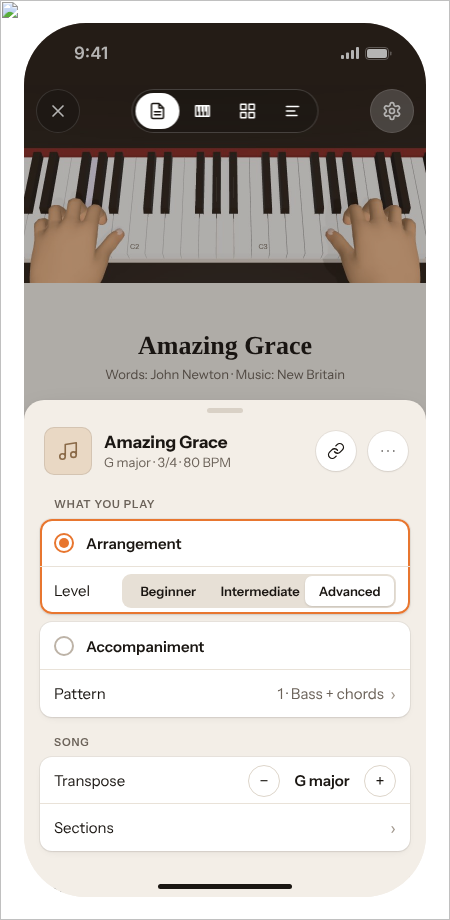
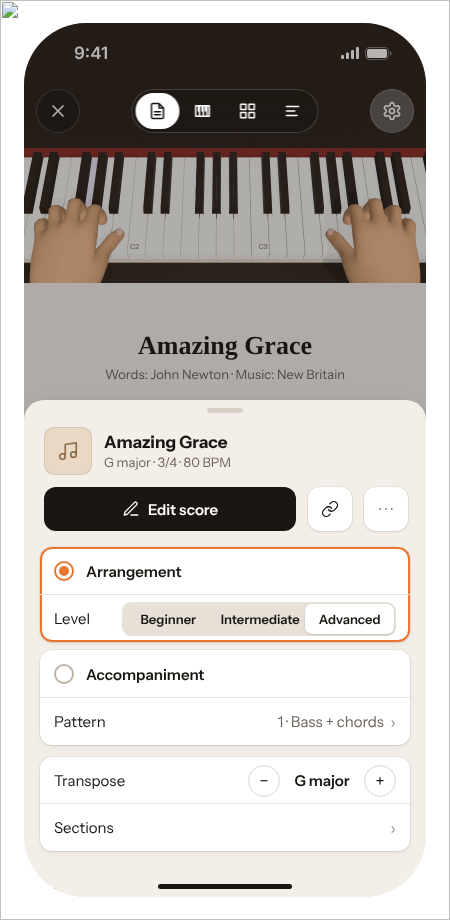
R37 canvas: Edit score as a full button under the song; no section headings in the drawer
Claude-Session: https://claude.ai/code/session_01BrtnH1Yf7S8aVU4w6rFSCU

Changed region(s): [[0.0622, 0.5174, 0.9333, 0.8217], [0.7156, 0.487, 0.7467, 0.5174]]

diff --git a/.scratch/r37/canvas/panels.py b/.scratch/r37/canvas/panels.py
@@ -116,18 +116,18 @@ ACTS = (caption('More') + '\n' + '<div role="group" aria-label="Song actions" st
     + ''.join('<button type="button" style="%s"><svg width="20" height="20" viewBox="0 0 24 24" fill="none" stroke="#6B6259" stroke-width="1.75" stroke-linecap="round" stroke-linejoin="round" aria-hidden="true" style="flex: none"><path d="%s"></path></svg><span style="flex: 1">%s</span><span aria-hidden="true" style="color: #A39A90; font-size: 18px">›</span></button>' % (ACT_ROW, d, n) for n, d in ACT_ICONS)
     + '</div>')
 ICON = lambda d, s=20: '<svg width="%d" height="%d" viewBox="0 0 24 24" fill="none" stroke="currentColor" stroke-width="1.75" stroke-linecap="round" stroke-linejoin="round" aria-hidden="true" style="flex: none"><path d="%s"></path></svg>' % (s, s, d)
-ICBTN = 'flex: none; width: 40px; height: 40px; border: 0; border-radius: 9999px; background: #FFFFFF; color: #1A1612; display: flex; align-items: center; justify-content: center; box-shadow: 0 0 0 1px rgba(26,22,18,0.06), 0 1px 2px rgba(26,22,18,0.08)'
+ICBTN = 'flex: none; width: 44px; height: 44px; border: 0; border-radius: 12px; background: #FFFFFF; color: #1A1612; display: flex; align-items: center; justify-content: center; box-shadow: 0 0 0 1px rgba(26,22,18,0.06), 0 1px 2px rgba(26,22,18,0.08)'
 MENU_ROW = 'min-height: 44px; box-sizing: border-box; padding: 0 14px; display: flex; align-items: center; gap: 12px; width: 100%; border: 0; border-top: 1px solid #EFE9E1; background: transparent; color: #1A1612; font-size: 15px; text-align: left'
 # the drawer's head is the song, as Chordify's and Apple Music's sheets are: its name and facts, and its two acts at the
 # right (Share link, and ··· for Edit score · Print · Export, a menu as Chordify's ⋮); settings only below, in groups
-SONGHEAD = ('<div style="flex: none; position: relative; display: flex; align-items: center; gap: 12px; padding: 2px 2px 4px 4px">'
+SONGHEAD = ('<div style="flex: none; position: relative; display: flex; flex-wrap: wrap; align-items: center; gap: 12px; padding: 2px 2px 4px 4px">'
     '<span aria-hidden="true" style="flex: none; width: 48px; height: 48px; border-radius: 10px; background: #E9D8C4; box-shadow: inset 0 0 0 1px rgba(26,22,18,0.10); display: flex; align-items: center; justify-content: center; color: #8A6A48">' + ICON('M9 18V5l12-2v13M9 18a3 3 0 1 1-6 0 3 3 0 0 1 6 0ZM21 16a3 3 0 1 1-6 0 3 3 0 0 1 6 0Z', 22) + '</span>'
-    '<span style="flex: 1; min-width: 0; display: flex; flex-direction: column; gap: 2px"><span style="font-size: 17px; font-weight: 700; line-height: 1.2; white-space: nowrap; overflow: hidden; text-overflow: ellipsis">Amazing Grace</span><span style="font-size: 13px; color: #6B6259; white-space: nowrap; overflow: hidden; text-overflow: ellipsis">{{keyName}} · 3/4 · 80 BPM</span></span>'
+    '<span style="flex: 1 1 calc(100% - 60px); min-width: 0; display: flex; flex-direction: column; gap: 2px"><span style="font-size: 17px; font-weight: 700; line-height: 1.2; white-space: nowrap; overflow: hidden; text-overflow: ellipsis">Amazing Grace</span><span style="font-size: 13px; color: #6B6259; white-space: nowrap; overflow: hidden; text-overflow: ellipsis">{{keyName}} · 3/4 · 80 BPM</span></span>'
+    '<button type="button" style="flex: 1; height: 44px; padding: 0 16px; border: 0; border-radius: 12px; background: #1A1612; color: #FFFFFF; display: flex; align-items: center; justify-content: center; gap: 8px; font-size: 15px; font-weight: 600">' + ICON('M12 20h9M16.5 3.5a2.1 2.1 0 0 1 3 3L7 19l-4 1 1-4Z', 18) + 'Edit score</button>'
     '<button type="button" aria-label="Share link" style="' + ICBTN + '">' + ICON('M10 13a5 5 0 0 0 7.54.54l3-3a5 5 0 0 0-7.07-7.07l-1.72 1.71M14 11a5 5 0 0 0-7.54-.54l-3 3a5 5 0 0 0 7.07 7.07l1.71-1.71', 18) + '</button>'
     '<button type="button" aria-label="More" aria-expanded="{{songActsOn}}" onClick="{{toggleSongActs}}" style="' + ICBTN + '">' + ICON('M5 12h.01M12 12h.01M19 12h.01', 20) + '</button>'
-    '<sc-if value="{{songActsShow}}" hint-placeholder-val="{{false}}"><div role="menu" style="position: absolute; z-index: 5; right: 0; top: 48px; width: 220px; border-radius: 14px; background: #FFFFFF; overflow: hidden; box-shadow: 0 0 0 1px rgba(26,22,18,0.08), 0 2px 4px rgba(26,22,18,0.10), 0 18px 40px -12px rgba(26,22,18,0.35)">'
+    '<sc-if value="{{songActsShow}}" hint-placeholder-val="{{false}}"><div role="menu" style="position: absolute; z-index: 5; right: 0; top: 118px; width: 220px; border-radius: 14px; background: #FFFFFF; overflow: hidden; box-shadow: 0 0 0 1px rgba(26,22,18,0.08), 0 2px 4px rgba(26,22,18,0.10), 0 18px 40px -12px rgba(26,22,18,0.35)">'
     + ''.join('<button type="button" role="menuitem" onClick="{{toggleSongActs}}" style="%s%s">%s<span>%s</span></button>' % (MENU_ROW, '; border-top: 0' if i == 0 else '', ICON(d), n) for i, (n, d) in enumerate([
-        ('Edit score', 'M12 20h9M16.5 3.5a2.1 2.1 0 0 1 3 3L7 19l-4 1 1-4Z'),
         ('Print', 'M6 9V2h12v7M6 18H4a2 2 0 0 1-2-2v-5a2 2 0 0 1 2-2h16a2 2 0 0 1 2 2v5a2 2 0 0 1-2 2h-2M6 14h12v8H6z'),
         ('Export', 'M4 12v8a2 2 0 0 0 2 2h12a2 2 0 0 0 2-2v-8M16 6l-4-4-4 4M12 2v13')]))
     + '</div></sc-if></div>')
@@ -164,9 +164,8 @@ def bodies(segw):
     'isView': ('{{viewName}} settings', title('{{viewName}}') + '\n' + VIEWSEC),
     # Settings: the song first (what you change for a piece), then the keyboard and only what its kind uses,
     # the actions last; no volume of its own (the device's, and each hand's in Hands)
-    'isMore': ('Settings', SONGHEAD + '\n' + caption('What you play') + '\n'
+    'isMore': ('Settings', SONGHEAD + '\n'
         + '<div role="radiogroup" aria-label="Score" style="display: flex; flex-direction: column; gap: 8px">' + CARD('arr', 'Arrangement', row('Level', seg('levelOpts', 3, 270))) + CARD('acc', 'Accompaniment', valrow('Pattern', '{{patternName}}', 'openPattern')) + '</div>\n'
-        + caption('Song') + '\n'
         + group(row('Transpose', STEP), link('Sections'))),
     # the keyboard: its own button at the transport's right end, Keys first, then only what that kind uses
     # the keyboard: which one, as pictures (Chordify's "Pick your view"), then only what changes that one

diff --git a/.scratch/r37/plan/pace-and-settings.md b/.scratch/r37/plan/pace-and-settings.md
@@ -151,9 +151,11 @@ settings drawer"; v151's icon list "still not good. research more and look also 
   Settings panel holds transposition, count-in, zoom and nothing to act on (soundslice.com/help, Transposing); Apple's
   HIG groups settings in lists under headers and puts an object's acts in a menu.
 - Will build: the drawer's head is the song, as a sheet in Chordify or Apple Music: a cover tile, **Amazing Grace**,
-  "G major · 3/4 · 80 BPM" (the key follows Transpose), and at its right two round buttons, **Share link** and **More**
-  (···), whose menu holds **Edit score · Print · Export**. Below, settings only, under headers: **What you play**, the
-  Arrangement · Accompaniment cards; **Song**, Transpose and Sections ›. No acts among the settings. Canvas v152;
+  "G major · 3/4 · 80 BPM" (the key follows Transpose); under it one row of buttons: **Edit score** (ink, filling the
+  row, its pencil and its name: owner, 2026-11-08, "i don't like that the edit button is too hidden"), **Share link**,
+  and **More** (···) with **Print · Export**. Below, settings only, with **no section headings** (owner: "i don't like
+  the headings or titles of the settings sections"): the Arrangement · Accompaniment cards, then Transpose and
+  Sections ›, the groups parted by space alone. No acts among the settings. Canvas v153 (v152 had the acts in ···);
   drawings `song-settings-acts.png`, `song-settings-more-menu.png`, `song-settings-acts-laptop.png`.
 
 **Placed (owner, 2026-11-07, on the five proposals):**

diff --git a/.claude/skills/owner-way/references/feedback-log.md b/.claude/skills/owner-way/references/feedback-log.md
@@ -83,6 +83,8 @@ owner's, typos fixed.
   distinctive", "feels like a bottom bar and not like settings drawer", "still not good. research more"): the song at
   the drawer's head with Share link and ··· (Edit score · Print · Export), as Chordify's ⋮; settings under headers below.
   Never a row of icon buttons in a drawer, never acts listed among settings.
+  Edit score is a full button under the song's name, never inside ··· ("the edit button is too hidden"); no section
+  headings over the drawer's groups ("i don't like the headings or titles of the settings sections").
 - **Settings a learner understands, ordered by what matters to them;** the sheet's View settings usable; nothing reserves
   a band above the keyboard, nor a tip; proper pedals, not a lever at the keys' corner (piano sites as the reference);
   the Player smooth with many notes (the Fantaisie hung). Build the approved mockup whole, "not only half" (2026-11-05).
